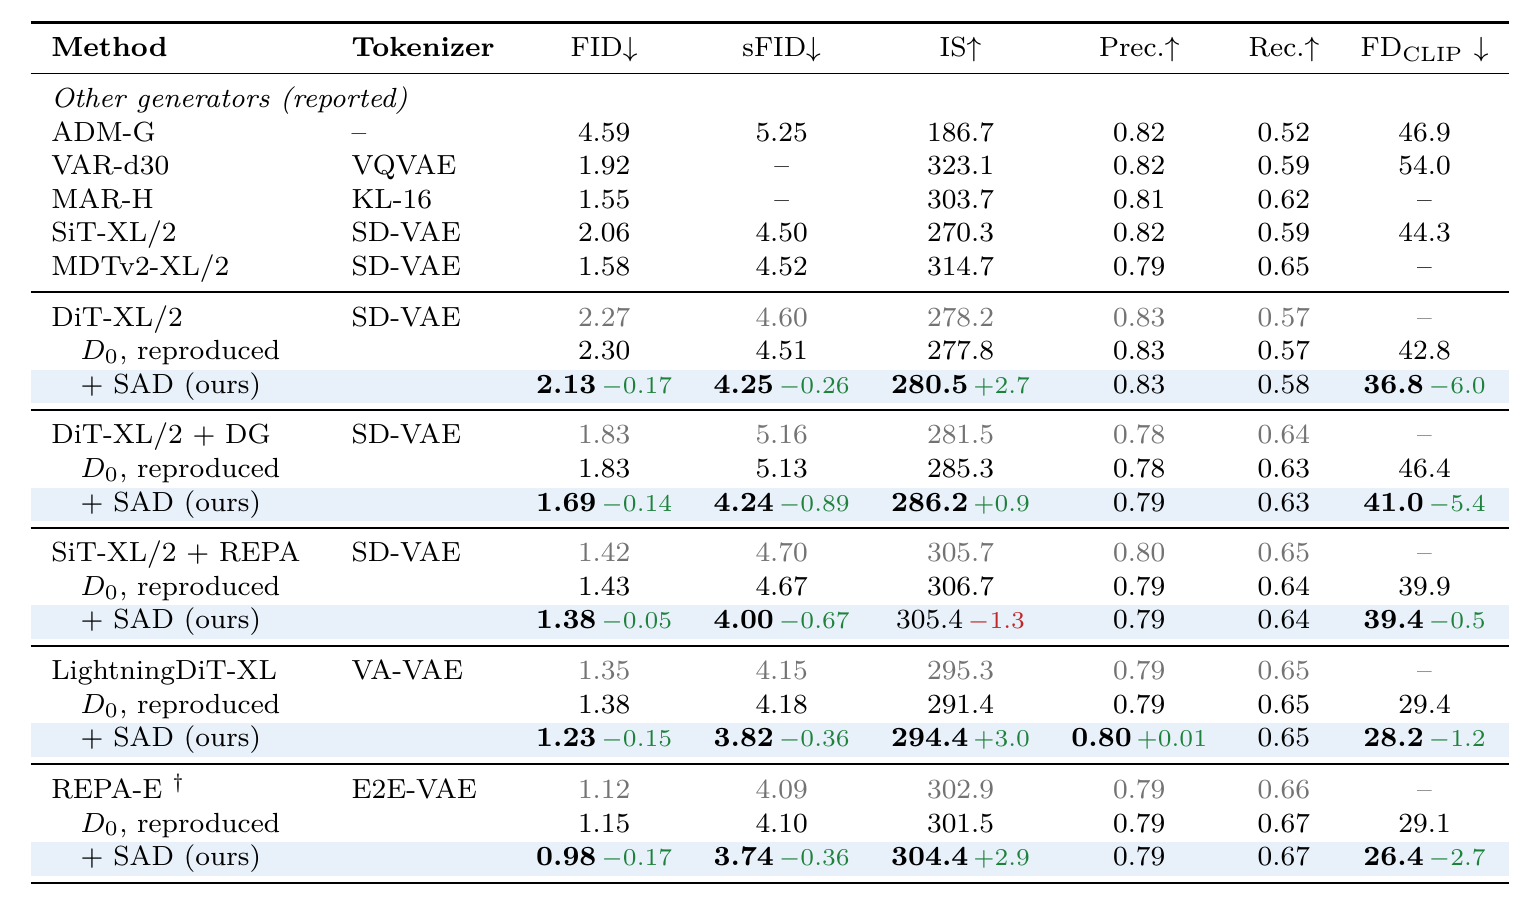
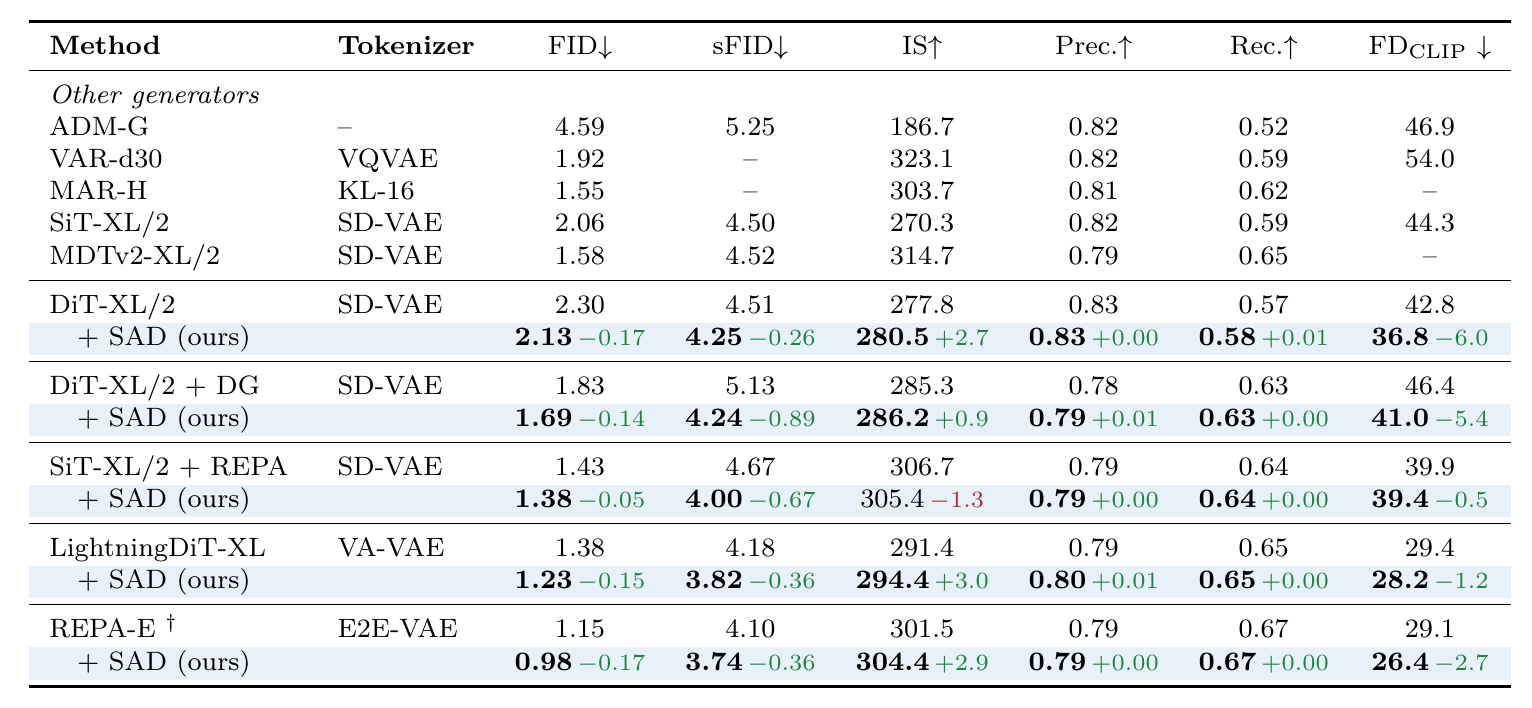
README: updated ImageNet results table

diff --git a/README.md b/README.md
@@ -33,7 +33,7 @@ SAD fine-tunes only this decoder in about one GPU-hour, with two losses:
 
 ### ImageNet 256×256
 
-FID-50K with the ADM evaluator. For each released generator: the reported result (gray), our evaluation with the original decoder D<sub>0</sub>, and SAD on the same latents.
+FID-50K with the ADM evaluator. For each released generator, the first row uses its original decoder D<sub>0</sub> and the second row SAD on the same latents.
 
 <div align="center"><img src="assets/table_sota.png" width="90%"></div>
 
